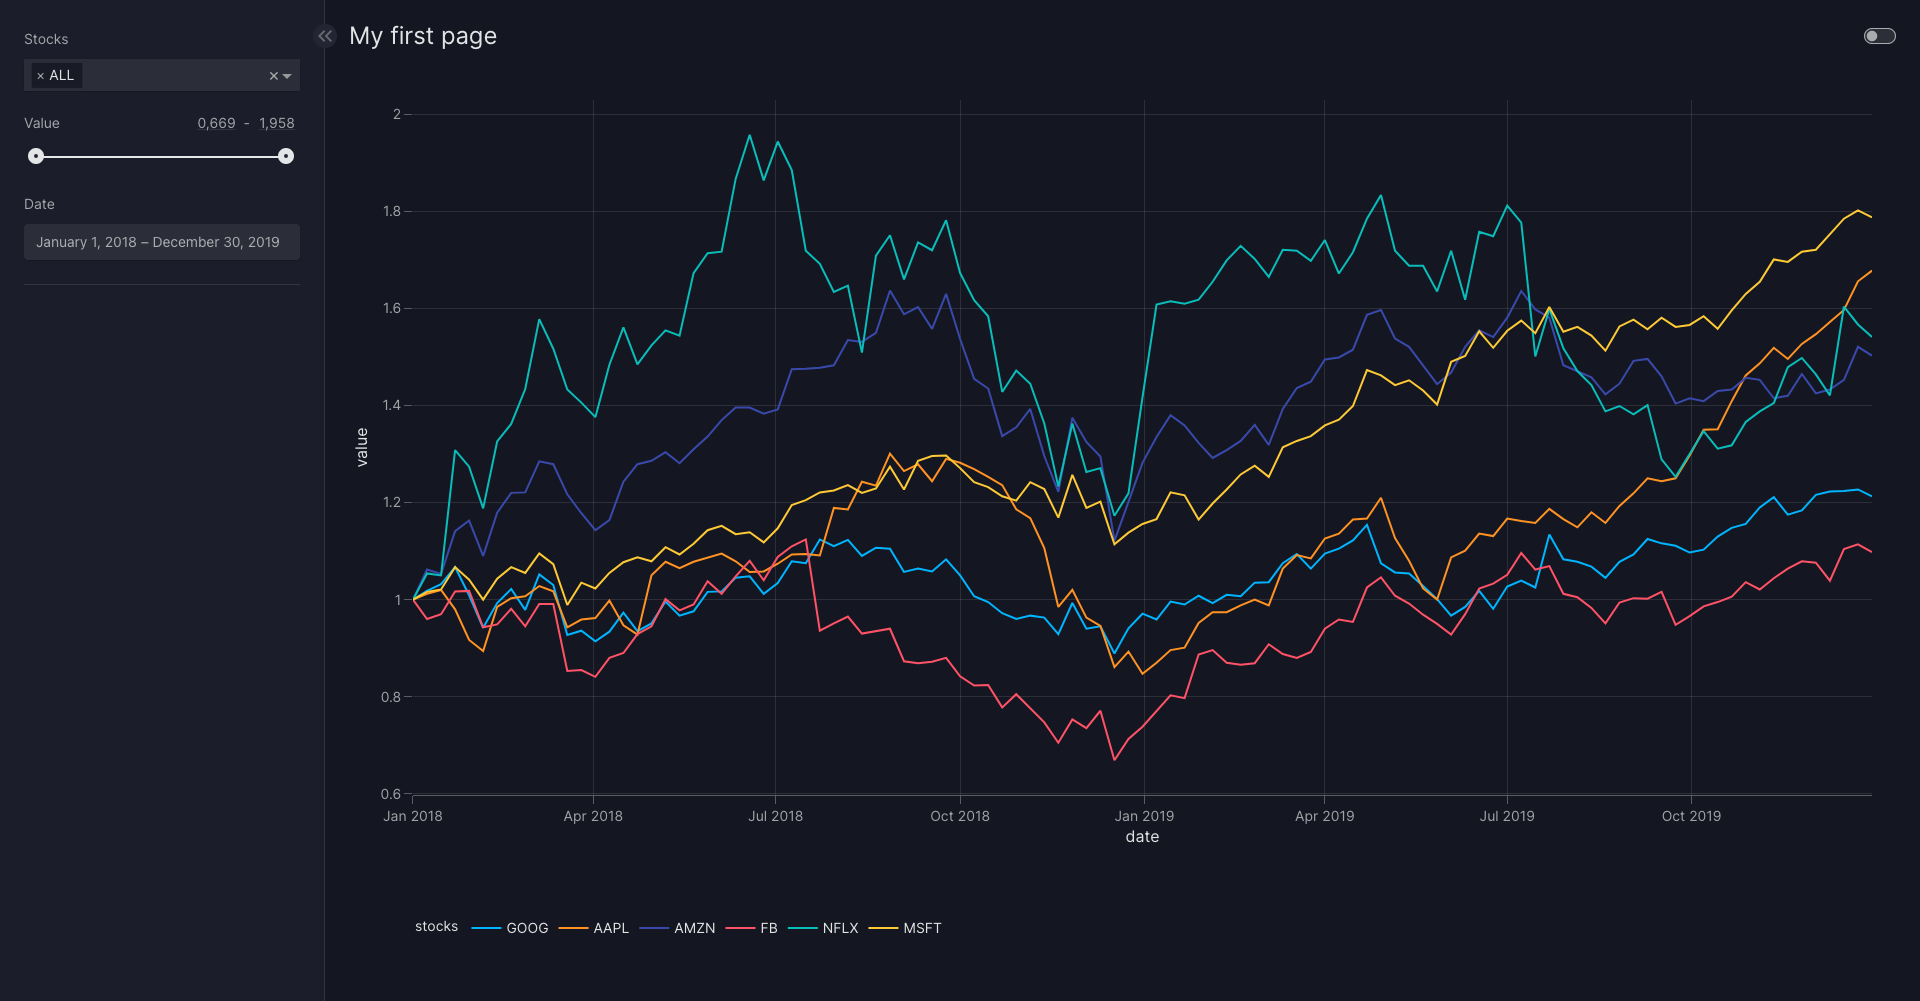
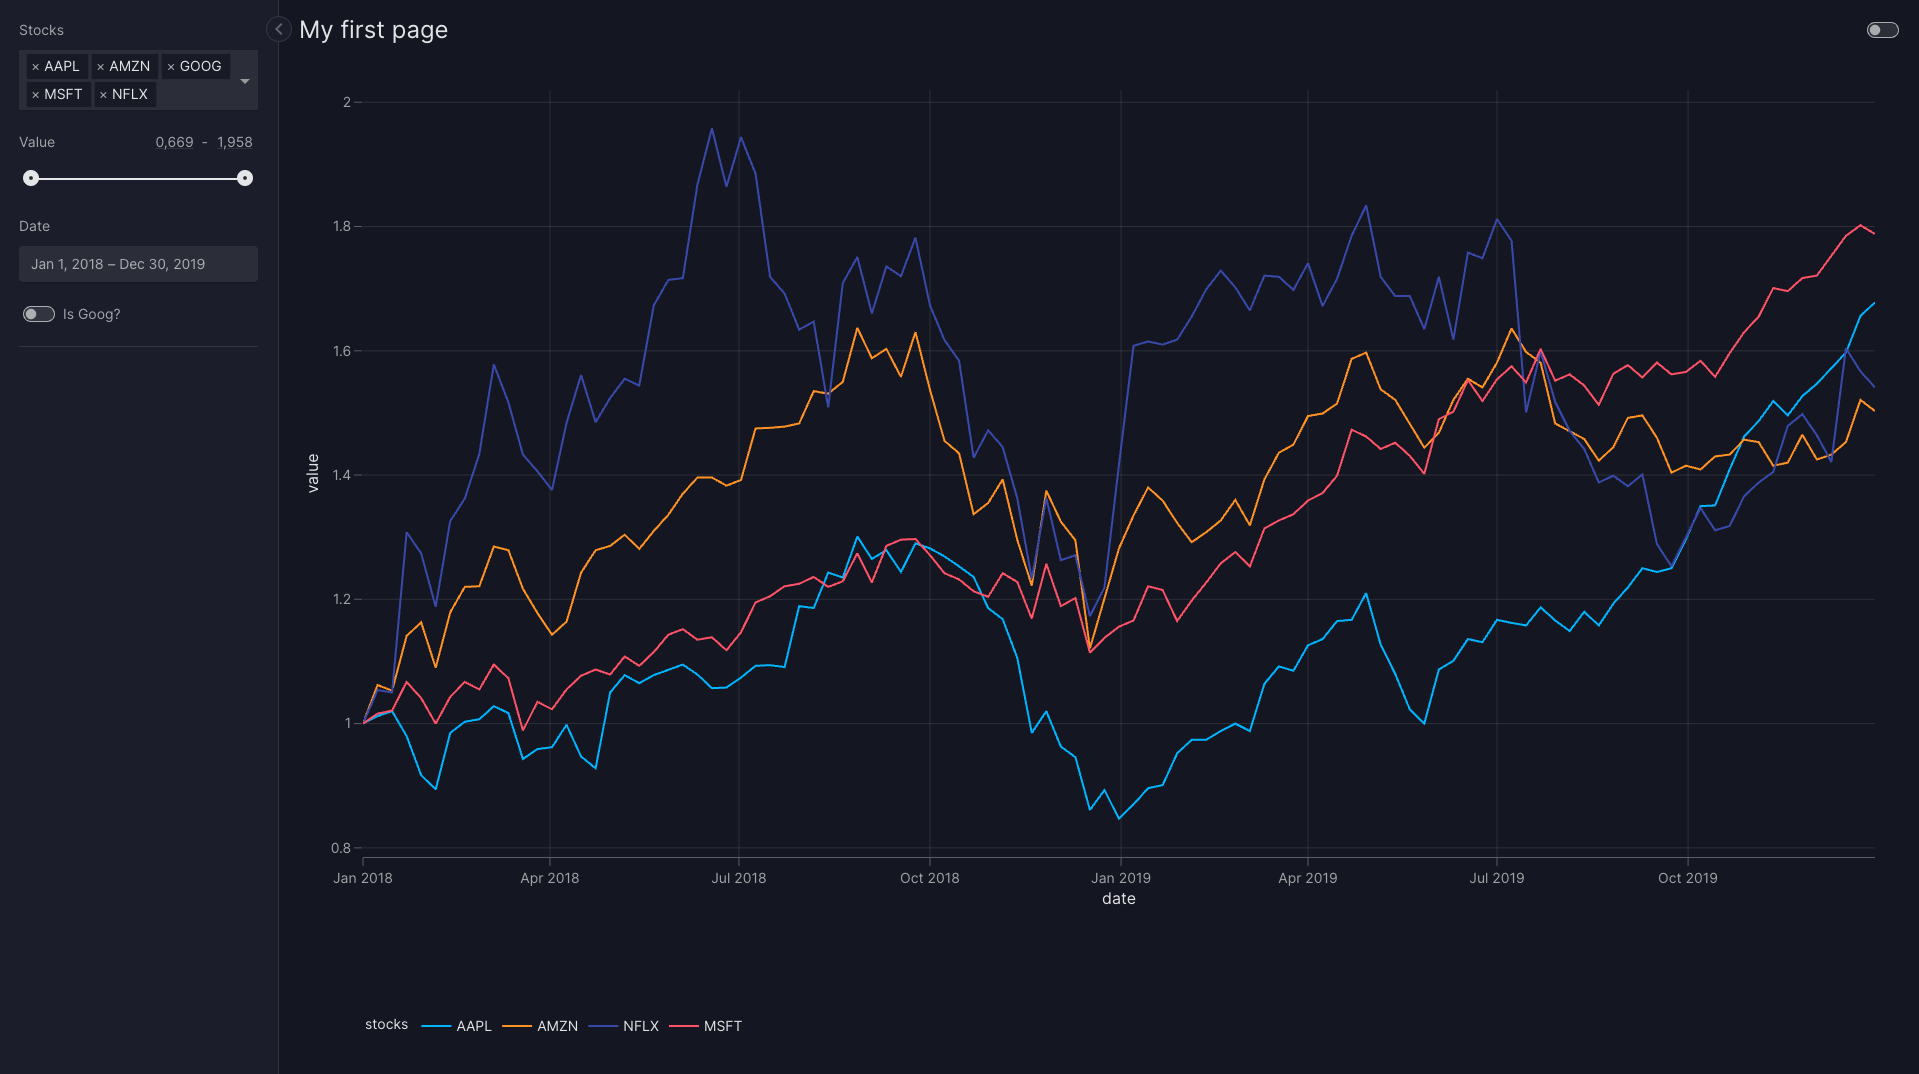
Update docs example

diff --git a/vizro-core/docs/pages/user-guides/filters.md b/vizro-core/docs/pages/user-guides/filters.md
@@ -76,7 +76,7 @@ The following example demonstrates these default selector types.
 
     === "app.py"
 
-        ```{.python pycafe-link hl_lines="24-26"}
+        ```{.python pycafe-link hl_lines="25-28"}
         import pandas as pd
         from vizro import Vizro
         import vizro.plotly.express as px
@@ -93,6 +93,7 @@ The following example demonstrates these default selector types.
         )
 
         df_stocks_long['value'] = df_stocks_long['value'].round(3)
+        df_stocks_long['Is GOOG?'] = df_stocks_long["stocks"] == "GOOG"
 
         page = vm.Page(
             title="My first page",
@@ -103,6 +104,7 @@ The following example demonstrates these default selector types.
                 vm.Filter(column="stocks"),
                 vm.Filter(column="value"),
                 vm.Filter(column="date"),
+                vm.Filter(column="Is GOOG?"),
             ],
         )
 
@@ -131,6 +133,8 @@ The following example demonstrates these default selector types.
                 type: filter
               - column: date
                 type: filter
+             - column: date
+                type: filter
             title: My first page
         ```
 
@@ -141,6 +145,8 @@ The following example demonstrates these default selector types.
 ## Change selector
 
 If you want to have a different selector for your filter, you can give the `selector` argument of the [`Filter`][vizro.models.Filter] a different selector model. Currently available selectors are [`Checklist`][vizro.models.Checklist], [`Dropdown`][vizro.models.Dropdown], [`RadioItems`][vizro.models.RadioItems], [`RangeSlider`][vizro.models.RangeSlider], [`Slider`][vizro.models.Slider], [`DatePicker`][vizro.models.DatePicker] and [`Switch`][vizro.models.Switch].
+
+You can explore and test all available selectors interactively at our [demo page](https://vizro-demo-features.hf.space/selectors).
 
 !!! example "Filter with different selector"
 
